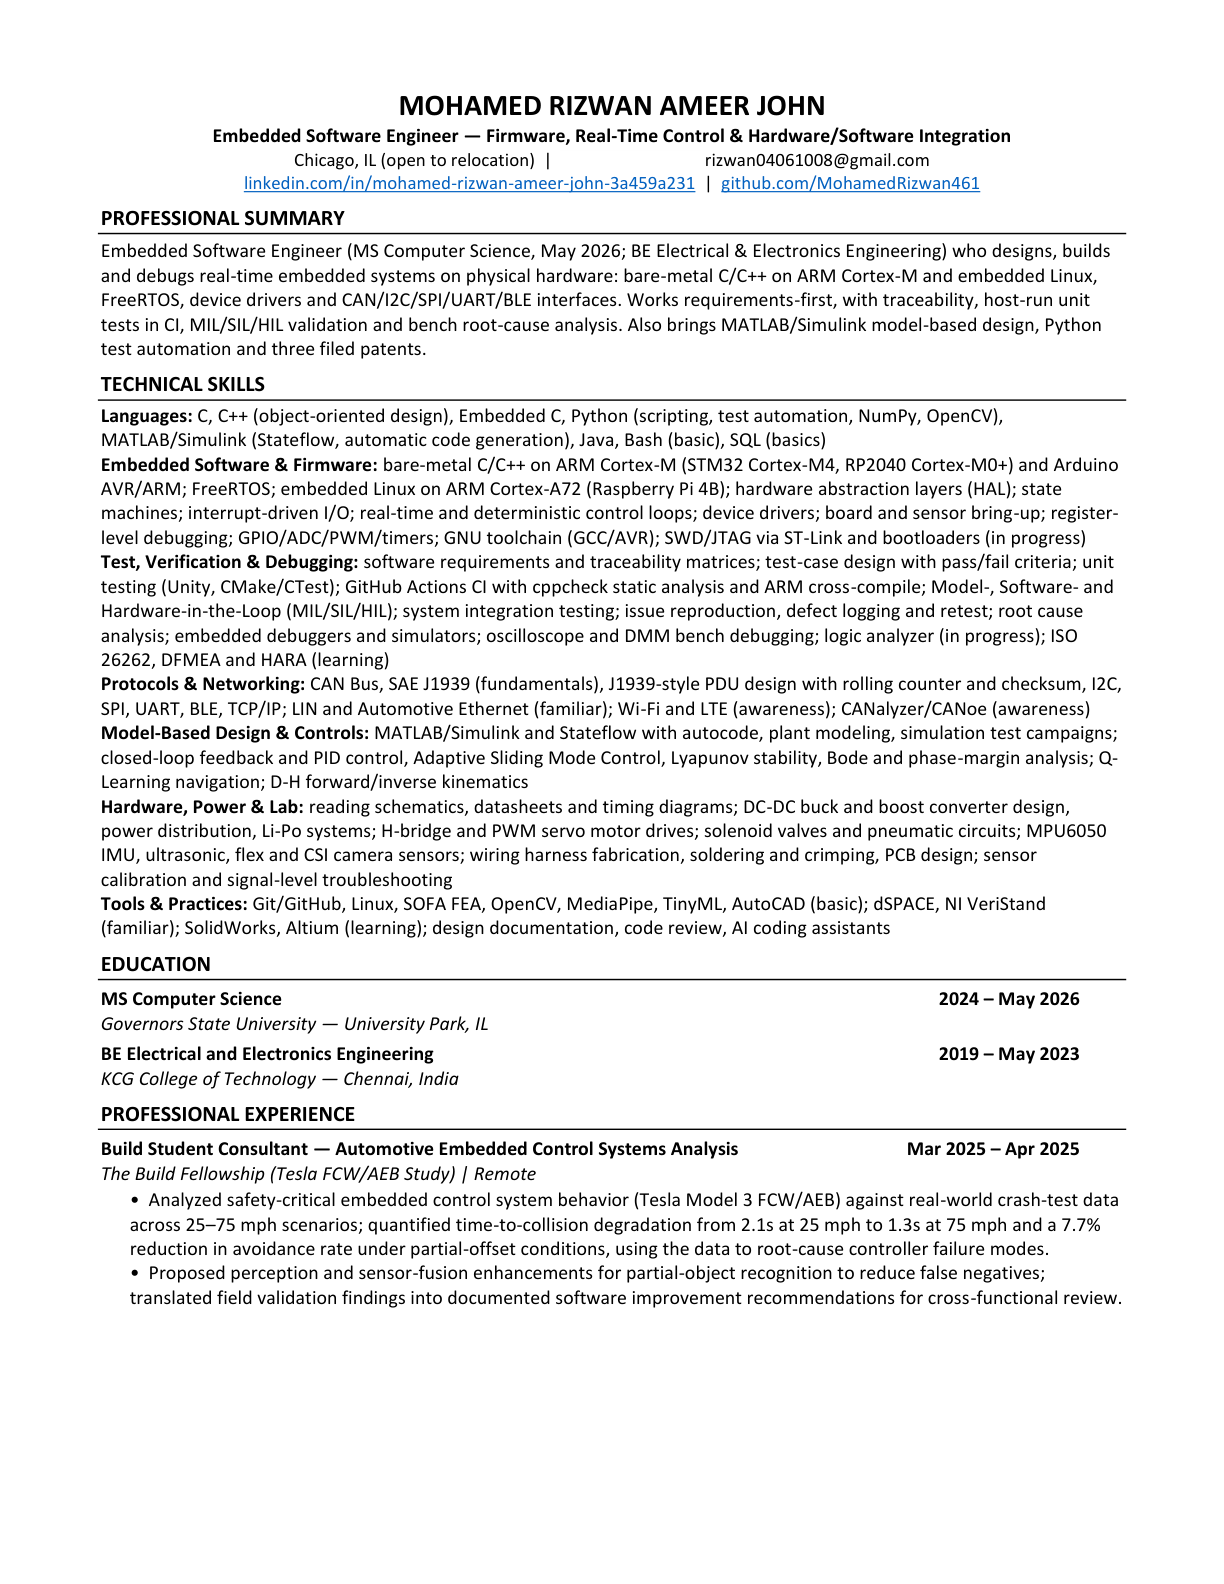
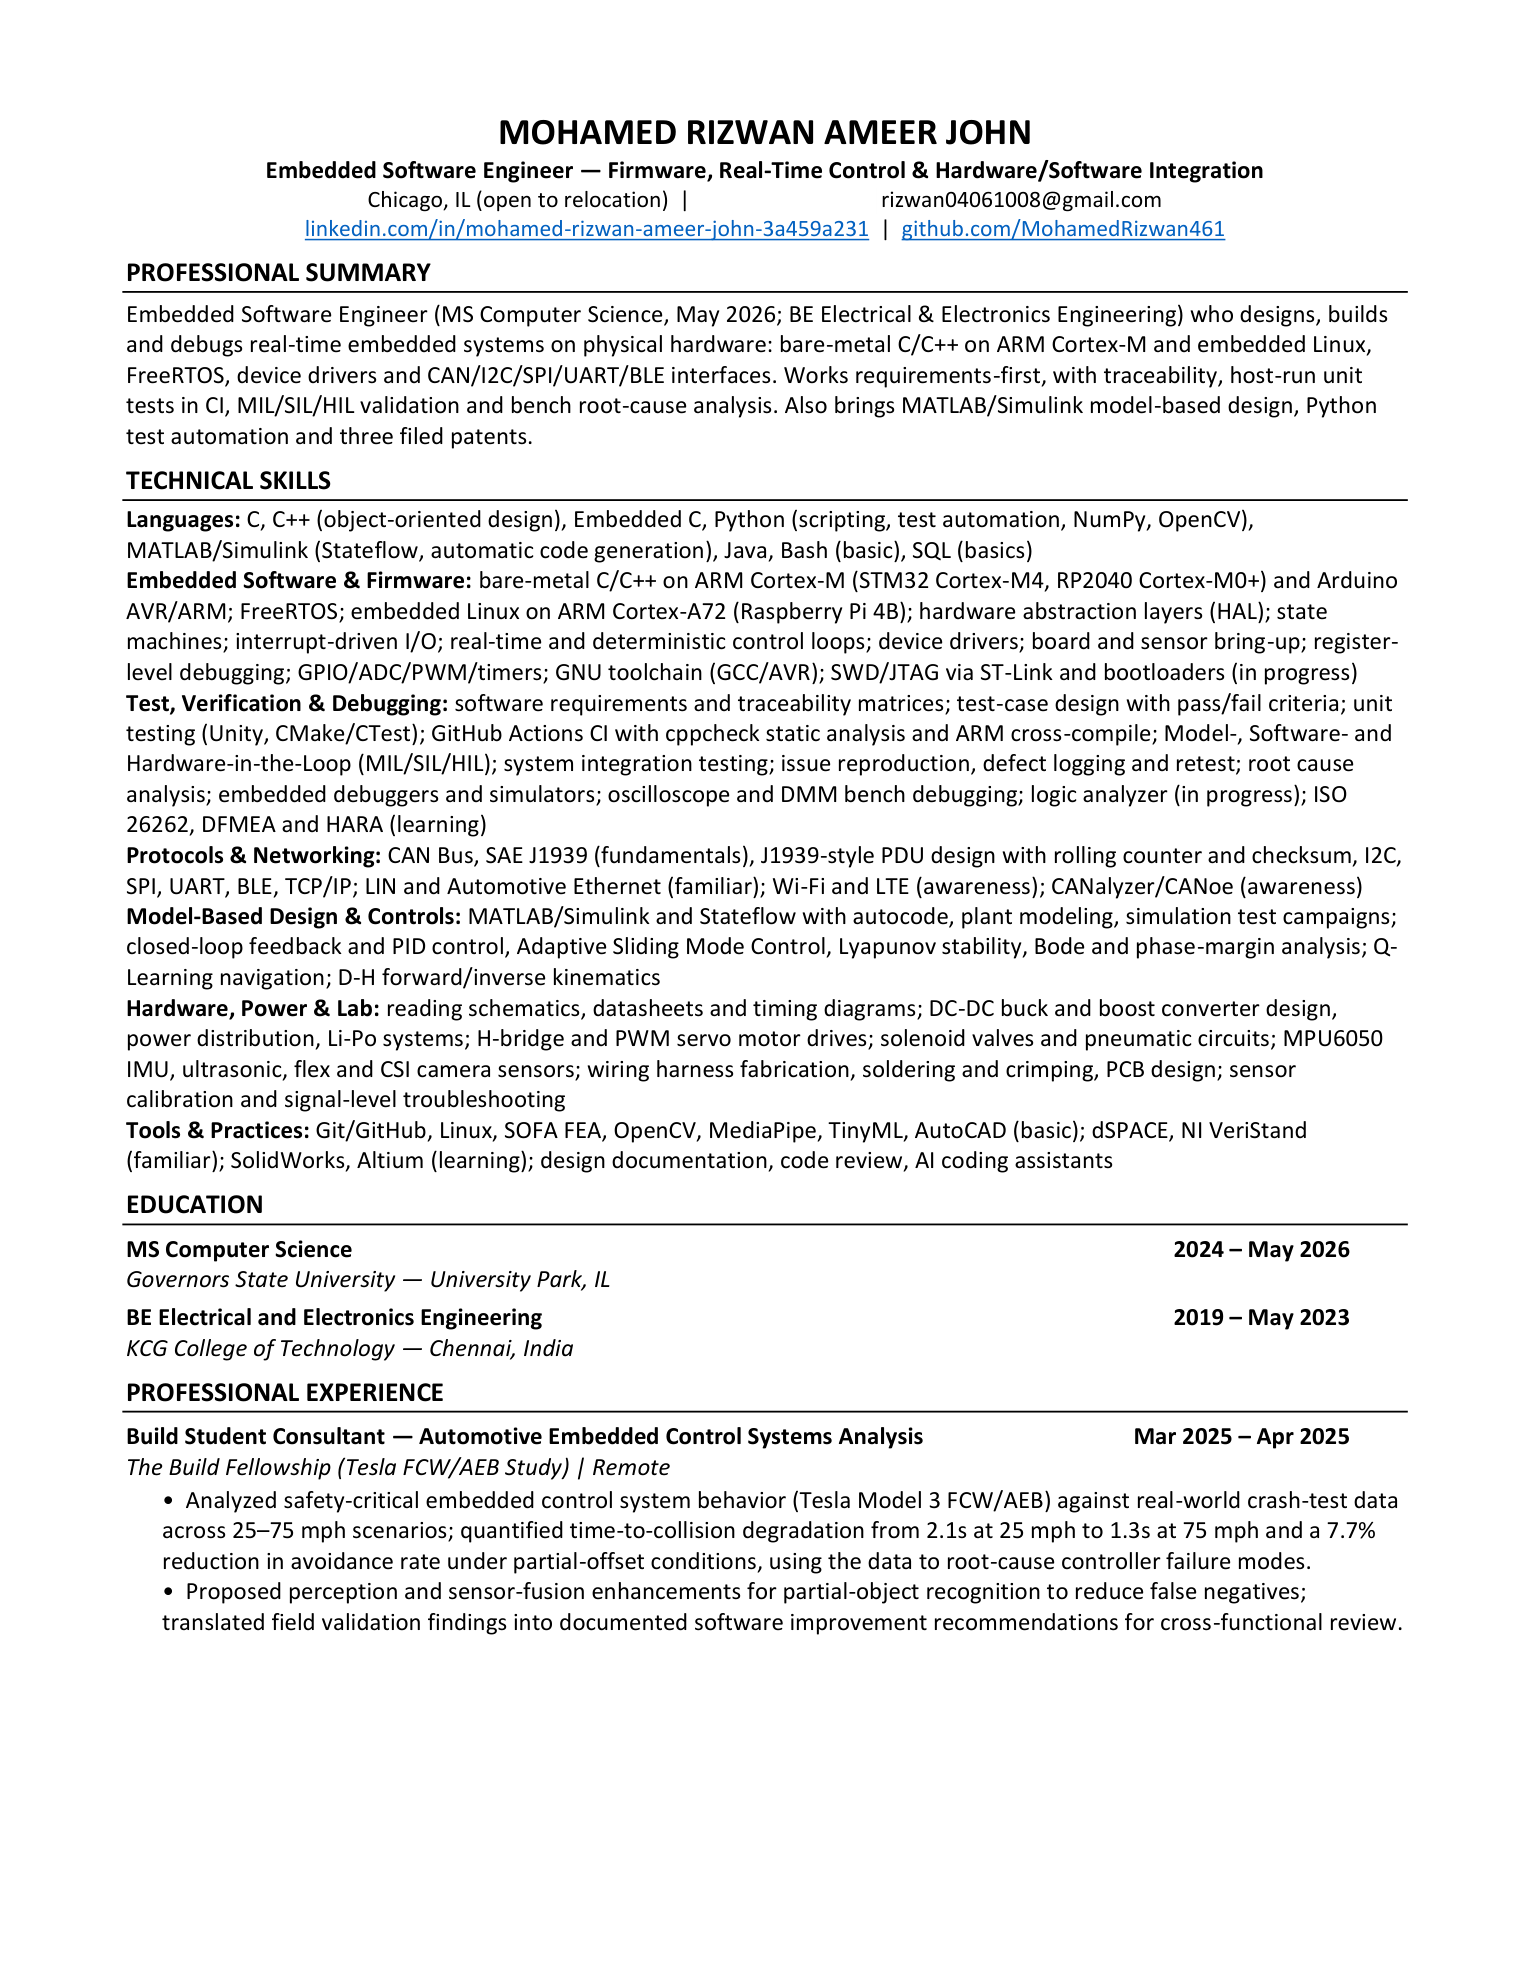
Resume shown as a paper preview with a full-screen reader on expand; sharper page renders

diff --git a/components/resume-viewer.tsx b/components/resume-viewer.tsx
@@ -1,0 +1,167 @@
+"use client";
+
+import Image from "next/image";
+import { AnimatePresence, motion, useReducedMotion } from "motion/react";
+import { useEffect, useRef, useState } from "react";
+import { createPortal } from "react-dom";
+import { ArrowUpRight, ArrowsOut, DownloadSimple, X } from "@phosphor-icons/react/dist/ssr";
+
+const EASE = [0.16, 1, 0.3, 1] as const;
+const PAGES = ["/resume/page-1.png", "/resume/page-2.png"];
+const W = 1530;
+const H = 1980;
+
+/**
+ * The resume on display as paper: page one on top, page two peeking out behind.
+ * Expanding opens a full-screen reader with both pages.
+ */
+export function ResumeViewer({ pdf }: { pdf: string }) {
+  const reduce = useReducedMotion();
+  const [open, setOpen] = useState(false);
+  const [mounted, setMounted] = useState(false);
+  useEffect(() => setMounted(true), []);
+  const closeBtn = useRef<HTMLButtonElement>(null);
+  const trigger = useRef<HTMLButtonElement>(null);
+
+  useEffect(() => {
+    if (!open) return;
+    const root = document.documentElement;
+    root.style.overflow = "hidden";
+    closeBtn.current?.focus();
+    const onKey = (e: KeyboardEvent) => e.key === "Escape" && setOpen(false);
+    window.addEventListener("keydown", onKey);
+    return () => {
+      root.style.overflow = "";
+      window.removeEventListener("keydown", onKey);
+      trigger.current?.focus();
+    };
+  }, [open]);
+
+  const pill = "h-10 items-center gap-2 rounded-full px-4 text-sm font-medium no-underline transition-[box-shadow,background-color,border-color] duration-500";
+
+  return (
+    <>
+      <div className="flex flex-wrap items-end justify-between gap-4">
+        <h2 id="resume" className="eyebrow">
+          Resume <span className="mx-2 opacity-40">/</span> 2 pages <span className="mx-2 opacity-40">/</span> PDF
+        </h2>
+        <div className="flex flex-wrap gap-2">
+          <button type="button" onClick={() => setOpen(true)} className={`${pill} inline-flex bg-ink text-ground hover:shadow-[0_0_0_5px_color-mix(in_srgb,var(--ink)_12%,transparent)]`}>
+            <ArrowsOut size={15} weight="bold" aria-hidden /> Expand
+          </button>
+          <a href={pdf} download className={`${pill} inline-flex border border-rule-strong text-ink hover:border-[color-mix(in_srgb,var(--ink)_50%,transparent)]`}>
+            <DownloadSimple size={15} weight="bold" aria-hidden /> Download
+          </a>
+        </div>
+      </div>
+
+      {/* the paper on the desk */}
+      <button
+        ref={trigger}
+        type="button"
+        onClick={() => setOpen(true)}
+        aria-label="Expand the resume to read it"
+        className="group relative mt-5 block w-full cursor-zoom-in text-left"
+      >
+        <span
+          className="relative mx-auto block w-full max-w-full lg:h-[var(--h)] lg:w-[calc(var(--h)*0.817)]"
+          style={{ aspectRatio: `${W + 120} / ${H + 40}`, "--h": "max(26rem, min(calc(100dvh - 13.5rem), 46rem))" } as React.CSSProperties}
+        >
+          {/* page two, behind */}
+          <span className="absolute top-5 right-0 block w-[88%] rotate-[2.5deg] border border-black/10 bg-white shadow-[0_30px_60px_-30px_rgba(0,0,0,0.8)] transition-transform duration-700 ease-[cubic-bezier(0.16,1,0.3,1)] group-hover:translate-x-3 group-hover:rotate-[4deg]" style={{ aspectRatio: `${W} / ${H}` }}>
+            <Image src={PAGES[1]} alt="" fill sizes="(min-width: 1024px) 520px, 80vw" className="object-contain opacity-90" />
+          </span>
+          {/* page one, on top */}
+          <span className="absolute top-0 left-0 block w-[88%] border border-black/10 bg-white shadow-[0_50px_100px_-40px_rgba(0,0,0,0.95)] transition-transform duration-700 ease-[cubic-bezier(0.16,1,0.3,1)] group-hover:-translate-y-1.5 group-hover:-rotate-[0.6deg]" style={{ aspectRatio: `${W} / ${H}` }}>
+            <Image src={PAGES[0]} alt="Resume of Mohamed Rizwan Ameer John, page 1" fill sizes="(min-width: 1024px) 520px, 80vw" className="object-contain" preload />
+            <span className="absolute inset-0 flex items-end justify-center bg-gradient-to-t from-black/55 via-black/0 to-transparent pb-6 opacity-0 transition-opacity duration-500 group-hover:opacity-100 group-focus-visible:opacity-100 max-lg:opacity-100">
+              <span className="inline-flex items-center gap-2 rounded-full bg-black/70 px-4 py-2 text-sm font-medium text-white backdrop-blur">
+                <ArrowsOut size={15} weight="bold" aria-hidden /> Click to read
+              </span>
+            </span>
+          </span>
+        </span>
+      </button>
+
+      {mounted &&
+        createPortal(
+      <AnimatePresence>
+        {open && (
+          <motion.div
+            role="dialog"
+            aria-modal="true"
+            aria-label="Resume"
+            className="fixed inset-0 z-[90] flex flex-col bg-black/80 backdrop-blur-xl"
+            initial={{ opacity: 0 }}
+            animate={{ opacity: 1 }}
+            exit={{ opacity: 0 }}
+            transition={{ duration: reduce ? 0 : 0.35 }}
+            onClick={() => setOpen(false)}
+          >
+            <div className="flex items-center justify-between gap-3 border-b border-white/10 px-4 py-3 sm:px-6" onClick={(e) => e.stopPropagation()}>
+              <p className="eyebrow !text-white/70">
+                <span className="hidden sm:inline">
+                  Mohamed Rizwan Ameer John <span className="mx-2 opacity-40">/</span>{" "}
+                </span>
+                Resume
+              </p>
+              <div className="flex items-center gap-2">
+                <a href={pdf} download className={`${pill} hidden bg-white text-black sm:inline-flex`}>
+                  <DownloadSimple size={15} weight="bold" aria-hidden /> Download
+                </a>
+                <a href={pdf} target="_blank" rel="noopener" className={`${pill} hidden border border-white/25 text-white hover:border-white/60 sm:inline-flex`}>
+                  Open PDF <ArrowUpRight size={14} weight="bold" aria-hidden />
+                </a>
+                <button
+                  ref={closeBtn}
+                  type="button"
+                  onClick={() => setOpen(false)}
+                  aria-label="Close"
+                  className="flex h-10 w-10 items-center justify-center rounded-full border border-white/25 text-white transition-colors hover:border-white/60"
+                >
+                  <X size={16} weight="bold" />
+                </button>
+              </div>
+            </div>
+
+            <div data-lenis-prevent className="flex-1 overflow-y-auto overscroll-contain px-3 py-6 sm:px-6 sm:py-10">
+              <motion.div
+                className="mx-auto flex max-w-[56rem] flex-col gap-6"
+                initial={reduce ? false : { opacity: 0, y: 40, scale: 0.98 }}
+                animate={{ opacity: 1, y: 0, scale: 1 }}
+                transition={{ duration: 0.6, ease: EASE }}
+                onClick={(e) => e.stopPropagation()}
+              >
+                {PAGES.map((src, i) => (
+                  <figure key={src} className="m-0">
+                    <Image
+                      src={src}
+                      width={W}
+                      height={H}
+                      alt={`Resume of Mohamed Rizwan Ameer John, page ${i + 1}`}
+                      sizes="(min-width: 960px) 896px, 100vw"
+                      className="h-auto w-full bg-white shadow-[0_40px_100px_-30px_rgba(0,0,0,0.9)]"
+                    />
+                    <figcaption className="eyebrow mt-3 text-center !text-white/50">
+                      Page {i + 1} of {PAGES.length}
+                    </figcaption>
+                  </figure>
+                ))}
+                <div className="flex justify-center gap-2 pb-4 sm:hidden">
+                  <a href={pdf} download className={`${pill} inline-flex bg-white text-black`}>
+                    <DownloadSimple size={15} weight="bold" aria-hidden /> Download
+                  </a>
+                  <a href={pdf} target="_blank" rel="noopener" className={`${pill} inline-flex border border-white/25 text-white`}>
+                    Open PDF <ArrowUpRight size={14} weight="bold" aria-hidden />
+                  </a>
+                </div>
+              </motion.div>
+            </div>
+          </motion.div>
+        )}
+      </AnimatePresence>,
+          document.body,
+        )}
+    </>
+  );
+}

diff --git a/app/contact/page.tsx b/app/contact/page.tsx
@@ -1,9 +1,9 @@
 import type { Metadata } from "next";
-import Image from "next/image";
-import { ArrowUpRight, DownloadSimple, EnvelopeSimple, GithubLogo, LinkedinLogo } from "@phosphor-icons/react/dist/ssr";
+import { ArrowUpRight, EnvelopeSimple, GithubLogo, LinkedinLogo } from "@phosphor-icons/react/dist/ssr";
 import { ContactForm } from "@/components/contact-form";
 import { Mask, Reveal } from "@/components/motion-bits";
-import { ButtonAnchor, Container } from "@/components/ui";
+import { ResumeViewer } from "@/components/resume-viewer";
+import { Container } from "@/components/ui";
 import { site } from "@/lib/content";
 
 export const metadata: Metadata = {
@@ -83,48 +83,7 @@ export default function ContactPage() {
         {/* the resume, pinned beside it */}
         <aside aria-labelledby="resume" className="order-2 lg:order-none lg:col-span-7">
           <div className="lg:sticky lg:top-24">
-            <div className="flex flex-wrap items-end justify-between gap-4">
-              <div>
-                <h2 id="resume" className="eyebrow">
-                  Resume <span className="mx-2 opacity-40">/</span> 2 pages <span className="mx-2 opacity-40">/</span> PDF
-                </h2>
-              </div>
-              <div className="flex flex-wrap gap-2">
-                <ButtonAnchor href={site.resumePdf} download className="!h-10 !px-4">
-                  <DownloadSimple size={15} weight="bold" aria-hidden /> Download
-                </ButtonAnchor>
-                <ButtonAnchor href={site.resumePdf} target="_blank" rel="noopener" variant="secondary" className="!h-10 !px-4">
-                  Open <ArrowUpRight size={14} weight="bold" aria-hidden />
-                </ButtonAnchor>
-              </div>
-            </div>
-
-            {/* desktop: the browser's own PDF viewer, as tall as the window allows */}
-            <div className="mt-4 hidden border border-rule bg-[var(--surface)] p-1.5 shadow-[0_50px_120px_-50px_rgba(0,0,0,0.9)] md:block">
-              <iframe
-                src={`${site.resumePdf}#navpanes=0&view=FitH`}
-                title="Resume PDF viewer"
-                className="block h-[calc(100dvh-13.25rem)] min-h-[480px] w-full bg-white"
-              />
-            </div>
-
-            {/* phones: the first page as a preview; the full PDF is one tap away */}
-            <a href={site.resumePdf} target="_blank" rel="noopener" className="group relative mt-4 block overflow-hidden border border-rule md:hidden">
-              <Image
-                src="/resume/page-1.png"
-                width={1224}
-                height={1584}
-                alt="Resume, page 1"
-                sizes="100vw"
-                className="h-[62vh] w-full bg-white object-cover object-top"
-              />
-              <span className="absolute inset-x-0 bottom-0 flex items-center justify-between bg-gradient-to-t from-black/85 to-transparent px-4 pt-12 pb-4 text-sm text-white">
-                Page 1 of 2
-                <span className="inline-flex items-center gap-1.5 font-medium">
-                  Open full PDF <ArrowUpRight size={14} weight="bold" aria-hidden />
-                </span>
-              </span>
-            </a>
+            <ResumeViewer pdf={site.resumePdf} />
           </div>
         </aside>
       </div>
